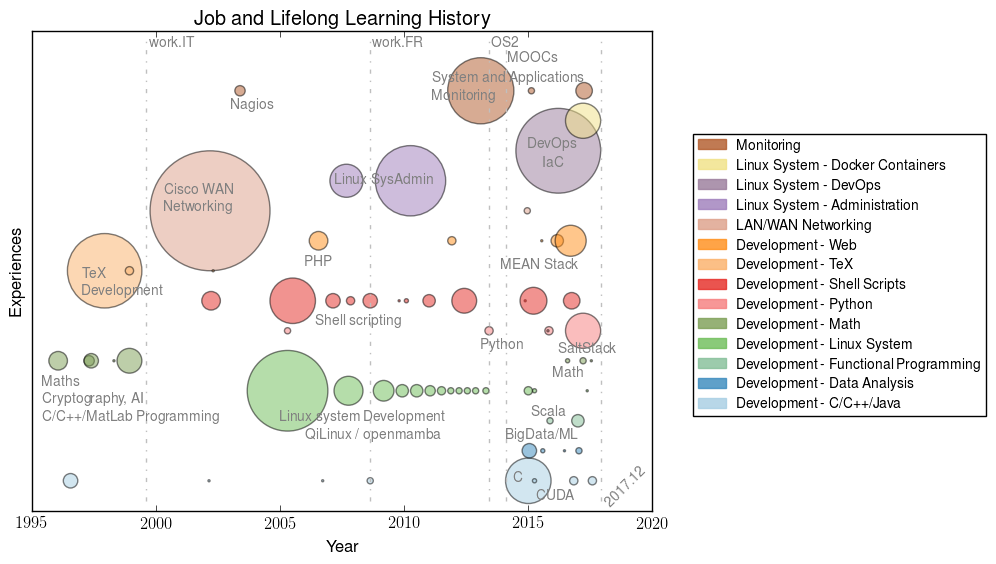
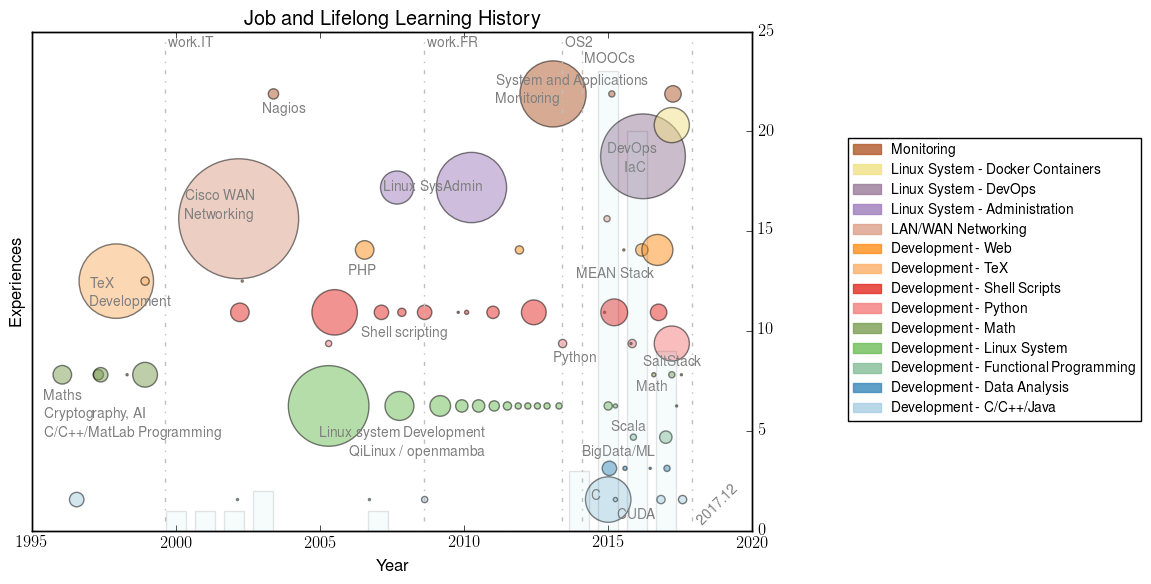
plot: add a bar displaying the number of completed courses

diff --git a/scripts/plot-experiences.py b/scripts/plot-experiences.py
@@ -86,17 +86,17 @@ def make_jobs_plot(experiences, area_adj=0.84):
         experiences.append(e.type)
         colors.append(e.color)
 
-    fig = plt.figure(1)
-    ax = fig.add_subplot(111)
+    fig, ax = plt.subplots()
 
     # Create a scatter plot with the job experiences
     ax.scatter(x=years, y=experiences, s=areas, c=colors, alpha=0.5)
 
     # Add axis labels
+    xmin, xmax = 1995, now.year + 3
     ax.set_xlabel('Year')
     ax.set_ylabel('Experiences')
     ax.set_title('Job and Lifelong Learning History')
-    ax.set_xlim([1995, now.year + 3])
+    ax.set_xlim([xmin, xmax])
     ax.set_ylim([-1, len(expr_types) + 1])
 
     # Add grid - fixme: yticks[] if set must to be manually adjusted
@@ -169,6 +169,17 @@ def make_jobs_plot(experiences, area_adj=0.84):
     lgd = ax.legend(reversed(handles), reversed(expr_types),
                     loc='upper right', bbox_to_anchor=(1.55, 0.8),
                     prop={'size': 10})
+
+    ax2 = ax.twinx()
+    years = np.arange(2000-.35, now.year+.35, 1)
+    courses = [
+        1, 1, 1, 2, 0, 0, 0, 1,
+        # 2008: Moving to France... 'formation continue' :P
+        0, 0, 0, 0, 0, 0,
+        # 2014: MOOCs start here, for me at least
+        3, 23, 20, 9]
+    ax2.bar(years, courses, width=.7, color='lightblue', alpha=0.1)
+    fig.tight_layout()
 
     return fig, lgd
 
